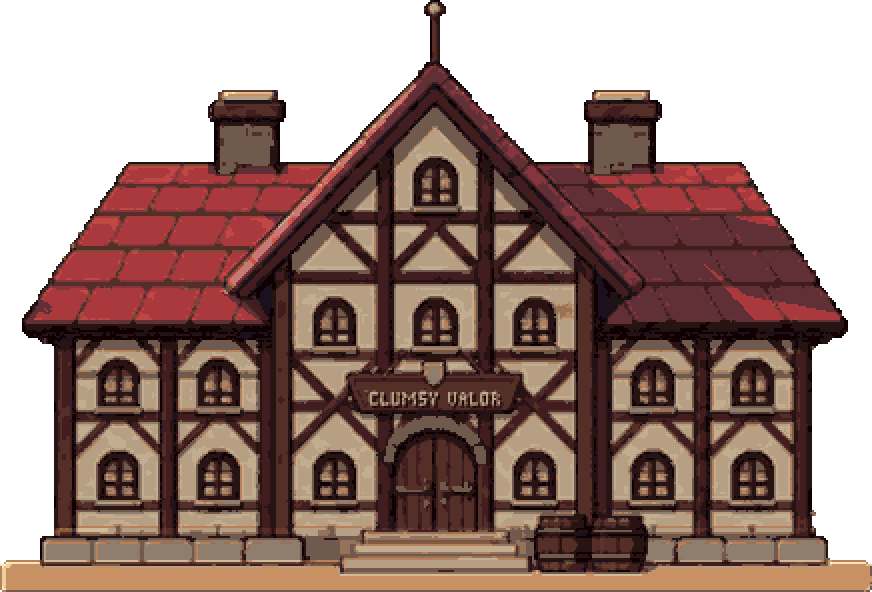
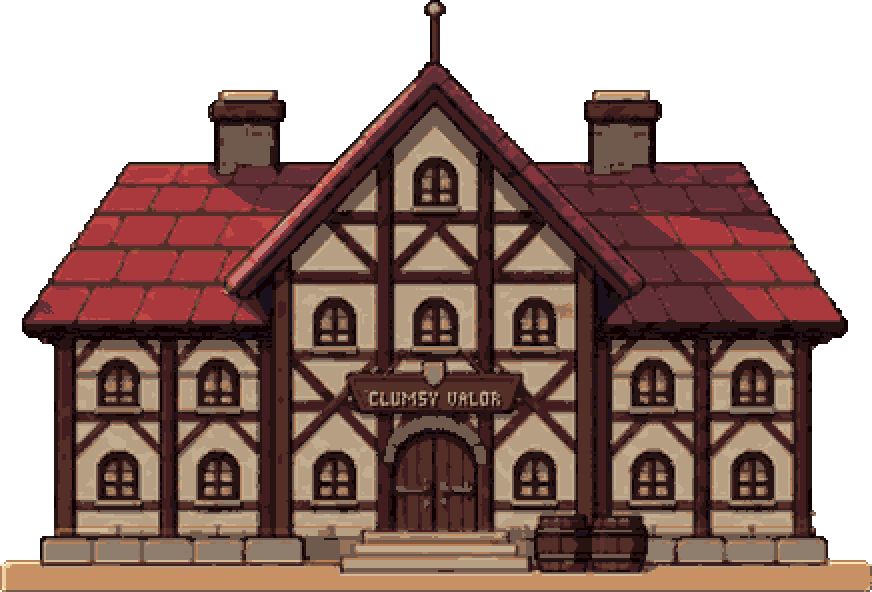
Preview: fix speckle (palette LUT sent 55 of 73 colours to a neighbour; ordered dither off) and broken roof shadows (solid roof mass, chimney depth, half-cell rays)
Claude-Session: https://claude.ai/code/session_01FzDataYedfiK9tzFLcKdoU

Changed region(s): [[0.6812, 0.2736, 0.9599, 0.5473], [0.2477, 0.2736, 0.4025, 0.3953]]

diff --git a/tools/bake_ground_light.py b/tools/bake_ground_light.py
@@ -9,7 +9,7 @@
       e  evening, sun from the right: the same to the left, longer
       n  night: contact shade only; pools of warm light round every lamp, fire, lit window and string bulb, wider
          across the plane than up and down it
-  assets/town/light/pal_lut.png   colour -> palette index (32 levels per channel; x = r*32 + g, y = b)
+  assets/town/light/pal_lut.png   colour -> palette index (64 levels per channel; x = r*64 + g, y = b)
   assets/town/light/pal_fx.png    per palette colour (row): [shade 2, shade 1, as is, sunlit, warm 1, warm 2] by the
                                   colour-theory move of bake_light2 (cool + greyer in shade, warm + richer in light),
                                   snapped back onto the palette
@@ -37,14 +37,23 @@ def pal_tables():
     labs = np.concatenate(RLAB)
     rid = np.concatenate([[i] * len(r) for i, r in enumerate(RAMPS)])
     n = len(cols)
-    lut = np.zeros((32, 32 * 32), np.uint8)
-    q = (np.arange(32) * 8 + 4).astype(float)
+    # 64 levels a channel (x = r * 64 + g, y = b); every palette colour owns its own bin exactly (the 32-level table
+    # took each bin's CENTRE's nearest colour, which sent 55 of the 73 palette colours to a neighbour: speckle)
+    Q = 64
+    lut = np.zeros((Q, Q * Q), np.uint8)
+    q = (np.arange(Q) * (256 // Q) + (128 // Q)).astype(float)
     R, Gg, B = np.meshgrid(q, q, q, indexing="ij")
     grid = np.stack([R, Gg, B], -1).reshape(-1, 3)
-    d = ((grid[:, None, :] - cols[None].astype(float)) ** 2).sum(-1).argmin(1).reshape(32, 32, 32)
-    for r in range(32):
-        for g in range(32):
-            lut[:, r * 32 + g] = d[r, g, :]
+    d = ((grid[:, None, :] - cols[None].astype(float)) ** 2).sum(-1).argmin(1).reshape(Q, Q, Q)
+    for i, c in enumerate(cols):
+        b_ = (c.astype(int) * Q) // 256
+        d[b_[0], b_[1], b_[2]] = i
+    for r in range(Q):
+        for g in range(Q):
+            lut[:, r * Q + g] = d[r, g, :]
+    for i, c in enumerate(cols):
+        b_ = (c.astype(int) * Q) // 256
+        assert lut[b_[2], b_[0] * Q + b_[1]] == i, "palette colours share a bin"
     Image.fromarray(lut).save(os.path.join(ROOT, "assets/town/light/pal_lut.png"))
     looks = [(-1.0, 285.0, 17.0, 0.45), (-1.0, 285.0, 9.0, 0.35), (0.0, 0, 0, 0), (1.0, 80.0, 8.0, 0.35),
              (1.0, 55.0, 14.0, 0.55), (1.0, 55.0, 24.0, 0.7)]

diff --git a/tools/light_proxy.py b/tools/light_proxy.py
@@ -90,7 +90,7 @@ def in_sun(ys, xs, Z, T, solid, L, reach=160, t0=2):
     d = L / max(np.hypot(L[0], L[1]), 1e-6)            # per cell of screen travel
     z0 = Z[ys, xs]
     shade = np.zeros(len(ys), bool)
-    for t in range(t0, reach):
+    for t in np.arange(t0, reach, 0.5):          # half-cell steps: a ray must not slip past a thin edge
         X = np.round(xs + d[0] * t).astype(int); Y = np.round(ys - d[1] * t).astype(int)
         ok = (X >= 0) & (X < w) & (Y >= 0) & (Y < h)
         zr = z0 + d[2] * t

diff --git a/docs/work/town-art/MEMO.md b/docs/work/town-art/MEMO.md
@@ -52,3 +52,5 @@
   → 적용(미리보기): 기준 문서 docs/work/town-art/LIGHT.md, 건물 뼈대 tools/proxy/<건물>.json(손으로 적음), tools/light_proxy.py(면 단위 N·L → 재질 램프 안 단계 이동, 뼈대 광선으로 투영 그림자, 밤 광원). 본관부터.
 - 2026-11-07: "길드는 정면광으로 넣기로 한거임? 우측이나 정면 그림자 시간에 따라 넣기 없이?" → (질문 답) "아침·저녁엔 뒤로"
   → 적용: 해가 정오엔 앞, 아침·저녁엔 마을 뒤(lit.gd sun3 = tools/light_proxy.py sun3). 구운 아침/저녁은 7:30, 17:30 기준.
+- 2026-11-07: "2번 3번은 그림자 형태가 왜 저러고, 4번은 왜 지지직 거림"
+  → 원인·적용: 지붕 두께를 8칸으로 적어 광선이 지붕 밑으로 빠져나가 그림자 안에 빛줄기가 생김 → 지붕 아래를 속이 찬 덩어리(90칸)로, 굴뚝을 지붕면 깊이(-46)로 고치고 광선을 반 칸씩 따라감. 바닥 팔레트 표(pal_lut)가 32단계라 팔레트 73색 중 55색을 이웃 색으로 바꿔 바닥·풀이 자글거림 → 64단계·팔레트 색 정확히 일치로 고침, 바닥 디더 제거.
